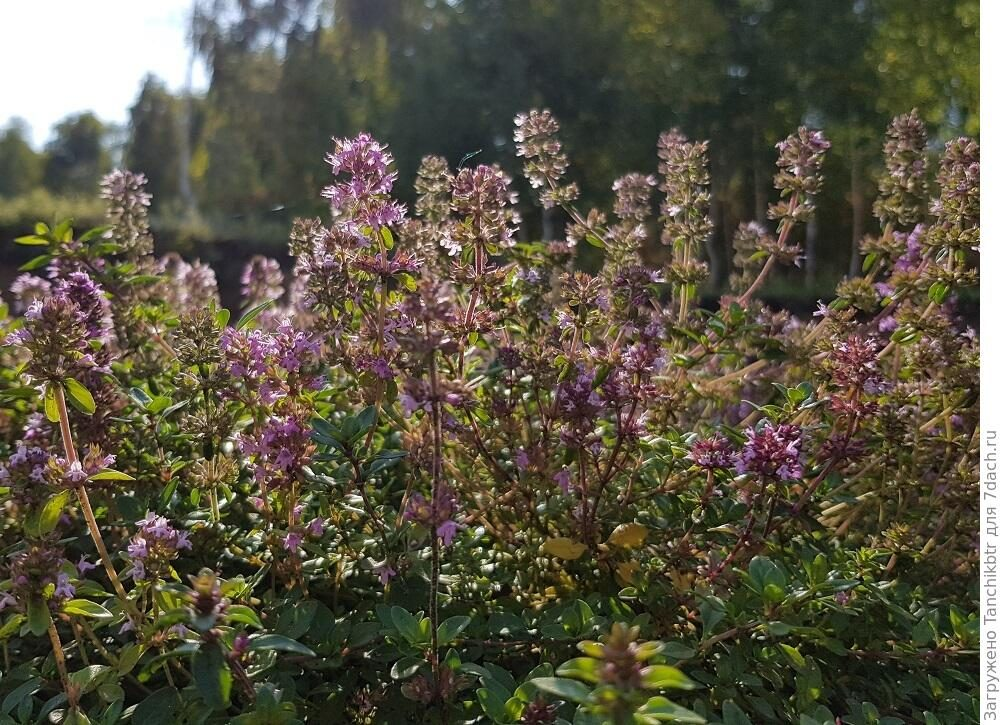
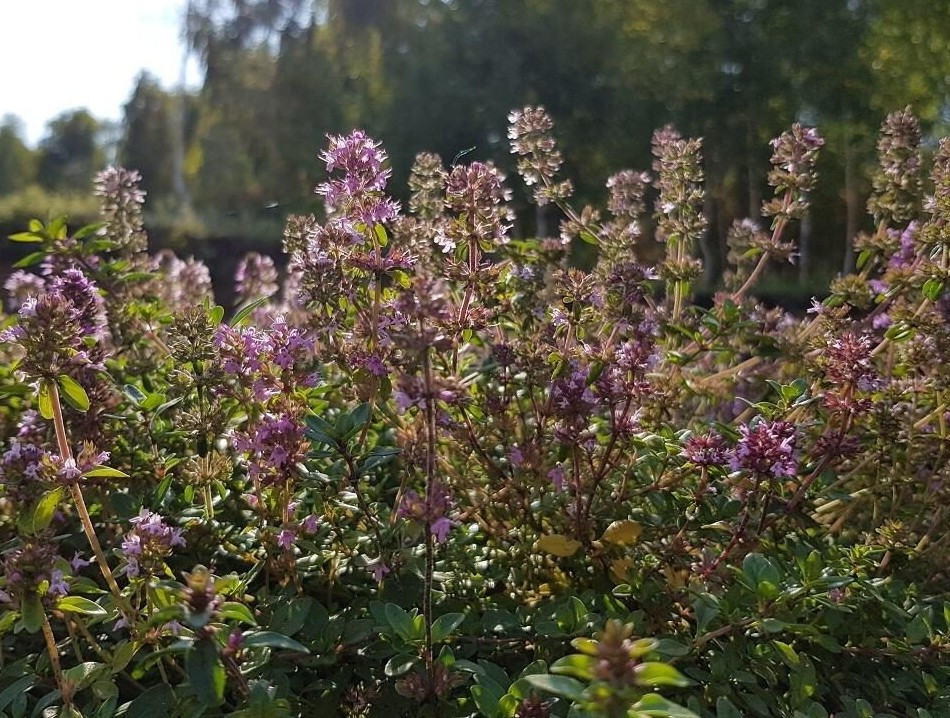
Обновление каталога 26.10.2026 13:28

diff --git a/data/catalog.js b/data/catalog.js
@@ -2874,23 +2874,28 @@ window.CATALOG = {
       "id": "chabrectimyan-parpl-20261008000525954",
       "name": "Чабрец/тимьян 'Парпл'",
       "category": "Многолетники",
-      "priceMin": 20000,
-      "priceMax": 20000,
+      "priceMin": 30000,
+      "priceMax": 38000,
       "oldPriceMin": null,
       "oldPriceMax": null,
       "salePercent": 0,
       "variants": [
         {
-          "label": "ВАРИАНТ - ИЗМЕНИТЬ",
-          "price": 20000,
-          "qty": 5
+          "label": "2 л",
+          "price": 38000,
+          "qty": 4
+        },
+        {
+          "label": "0.5 л",
+          "price": 30000,
+          "qty": 1
         }
       ],
       "status": "В наличии",
       "stockCount": 5,
       "badges": [],
-      "short": "Чабрец/тимьян сорт Парпл, кочка 60–70 см.",
-      "description": "Чабрец/тимьян для кухни и чая, сорт Парпл. Посажен два сезона назад, но образовал уже приличную кочку диаметром 60-70 см. Очень крупные листья, выглядит более эффектно, чем дикая форма чабреца. Цветёт светло-сиреневыми соцветиями.",
+      "short": "Чабрец/тимьян сорт Парпл",
+      "description": "Чабрец/тимьян для кухни и чая, сорт Парпл. Посажен два сезона назад, но образовал уже коврик диаметром 60-70 см. Очень крупные листья, выглядит более эффектно, чем дикая форма чабреца. Цветёт сначала светло-сиреневыми соцветиями, а затем цвет усиливается и становится насыщенным пурпурным, ярким. Растение  очень ароматное. Очень приятный пряный и немного «острый» аромат отдаленно напоминает анис и тмин, проявляется при малейшем соприкосновении или дуновении ветра.\nПрекрасно смотрится в пряно-ароматических клумбах, вдоль дорожек и бордюрной посадке. Активно используем для приготовления различных мясных блюд, салатов и витаминных чаев!",
       "traits": [
         {
           "label": "Сорт",
@@ -2929,10 +2934,6 @@ window.CATALOG = {
       },
       "photos": [
         {
-          "file": "p1363-1315396595.jpg",
-          "alt": "Чабрец/тимьян 'Парпл'"
-        },
-        {
           "file": "p1363-1316205972.jpg",
           "alt": "Чабрец/тимьян 'Парпл'"
         },
@@ -2942,6 +2943,10 @@ window.CATALOG = {
         },
         {
           "file": "p1363-1318277759.jpg",
+          "alt": "Чабрец/тимьян 'Парпл'"
+        },
+        {
+          "file": "p1363-1321126593.jpg",
           "alt": "Чабрец/тимьян 'Парпл'"
         }
       ],

diff --git a/sw.js b/sw.js
@@ -20,6 +20,7 @@ var CORE = [
   "./about.html",
   "./guarantees.html",
   "./articles.html",
+  "./news.html",   /* Б-4: страница новостей — прекэш + network-first (wantsFresh) */
   "./offer.html",
   "./privacy.html"
 ];
@@ -56,7 +57,8 @@ self.addEventListener("fetch", function (e) {
   var wantsFresh = CORE.some(function (p) {
     return url.pathname.endsWith(p.replace("./", "/"));
   }) || url.pathname === "/chudni-sad/" || url.pathname === "/chudni-sad/index.html" ||
-     url.pathname === "/chudni-sad/data/catalog.js";
+     url.pathname === "/chudni-sad/data/catalog.js" ||
+     url.pathname.endsWith("/data/news.json");   /* Б-4: новости — всегда из сети */
 
   if (wantsFresh) {
     /* network-first: страница и каталог почти всегда из сети, кэш — как страховка.

diff --git a/index.html b/index.html
@@ -76,6 +76,7 @@
         <a href="#care">Как купить</a>
         <a href="guarantees.html">Гарантии</a>
         <a href="articles.html">Посадка и уход</a>
+        <a href="news.html">Новости</a>
         <a href="#contacts">Контакты</a>
       </nav>
 
@@ -217,6 +218,7 @@
         <a href="about.html">О питомнике</a>
         <a href="guarantees.html">Гарантии</a>
         <a href="articles.html">Посадка и уход</a>
+        <a href="news.html">Новости</a>
         <a href="price.html">Прайс-лист</a>
         <a href="offer.html">Оферта</a>
         <a href="privacy.html">Политика ПДн</a>
